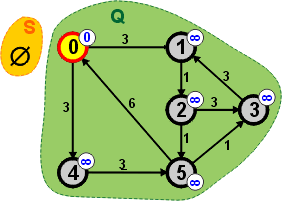
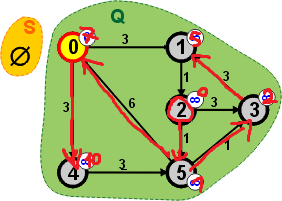
LaboV8 - modify DijkstraVsBellFord.py to adjust Value initialization; update DijGraf.png

diff --git a/LaboV8/DijkstraVsBellFord.py b/LaboV8/DijkstraVsBellFord.py
@@ -42,7 +42,7 @@ def minNode():
     Queue.remove(nmin)
     return nmin
 
-Value(0)
+Value(2)
 while len(Queue)>0:
     Value(minNode())
 